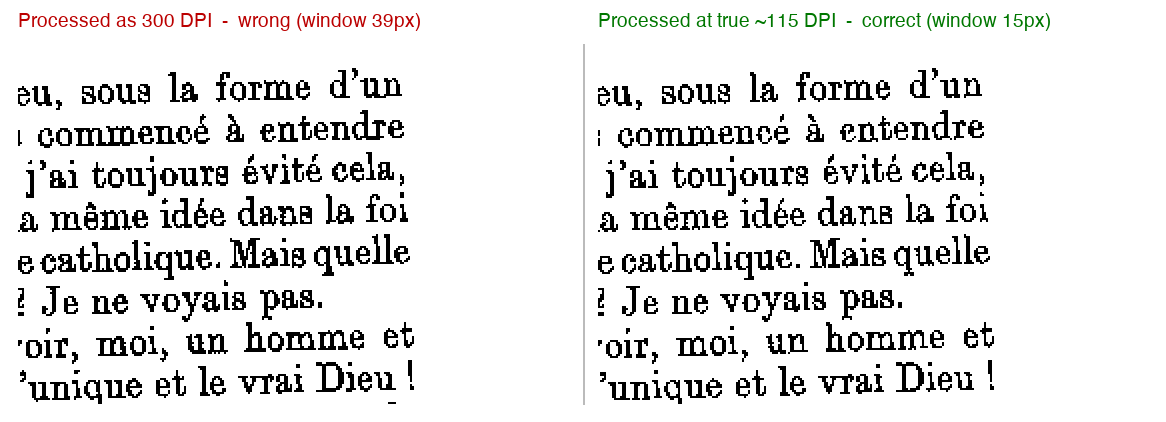
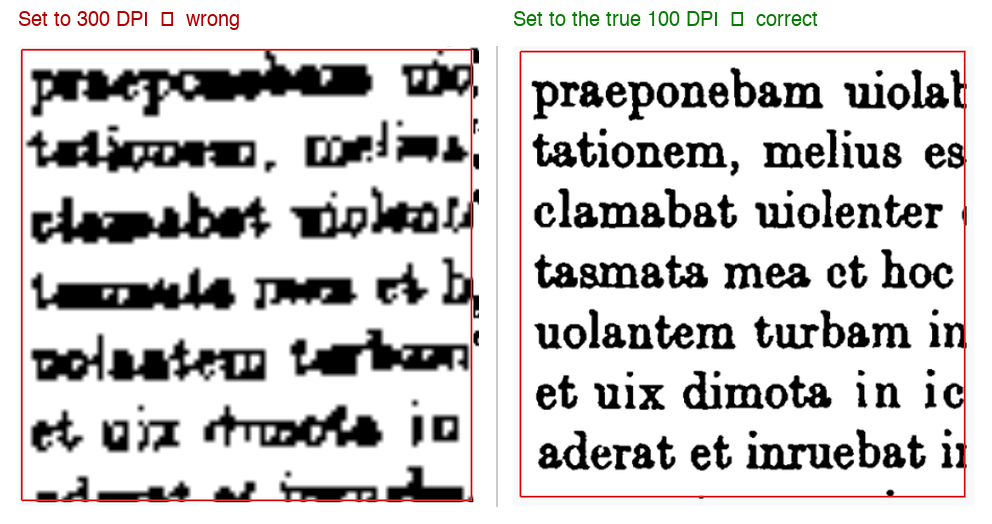
docs(quickstart): real wrong-vs-correct DPI figure (true 100)
Replace the synthetic figure with real Aglaïa output: the same scan
cleaned as 300 DPI (broken, merged strokes) vs at its true 100 DPI
(crisp). Update the caption to 100.

diff --git a/docs/quickstart.md b/docs/quickstart.md
@@ -98,8 +98,8 @@ the app 300 DPI when the photo is really ~110 and every one of those is ~3×
 off — strokes break up, thin lines vanish, noise survives. The picture looks
 fine to your eye; the math is wrong.
 
-![The same ~110 DPI photo cleaned as if it were 300 DPI (left, broken) vs at
-its true DPI (right, clean)](./assets/dpi-comparison.png)
+![The same 100 DPI photo cleaned as if it were 300 DPI (left, broken) vs at
+its true 100 DPI (right, clean)](./assets/dpi-comparison.png)
 
 **Set it in the app.**
 